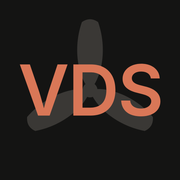
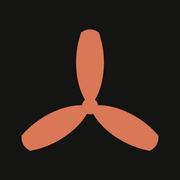
Icona: solo elica; service worker network-first per aggiornamento automatico
Claude-Session: https://claude.ai/code/session_01FdBpUrxqArmfs7yJR15D1w

Changed region(s): [[0.1111, 0.1111, 0.9167, 0.8611]]

diff --git a/sw.js b/sw.js
@@ -1,0 +1,15 @@
+// Network-first: l'app si aggiorna da sola ad ogni apertura; la cache serve solo offline.
+const CACHE = 'vds-cache';
+self.addEventListener('install', () => self.skipWaiting());
+self.addEventListener('activate', e => e.waitUntil(self.clients.claim()));
+self.addEventListener('fetch', e => {
+  const req = e.request;
+  if (req.method !== 'GET' || new URL(req.url).origin !== location.origin) return;
+  e.respondWith(
+    fetch(req, { cache: 'no-cache' }).then(res => {
+      const copy = res.clone();
+      caches.open(CACHE).then(c => c.put(req, copy)).catch(() => {});
+      return res;
+    }).catch(() => caches.match(req))
+  );
+});

diff --git a/index.html b/index.html
@@ -77,5 +77,18 @@
 
 <script src="data.js"></script>
 <script src="app.js"></script>
+<script>
+if ('serviceWorker' in navigator) {
+  var hadSW = !!navigator.serviceWorker.controller, reloading = false;
+  navigator.serviceWorker.addEventListener('controllerchange', function () {
+    if (hadSW && !reloading) { reloading = true; location.reload(); }
+  });
+  navigator.serviceWorker.register('sw.js').then(function (reg) {
+    document.addEventListener('visibilitychange', function () {
+      if (document.visibilityState === 'visible') reg.update();
+    });
+  }).catch(function () {});
+}
+</script>
 </body>
 </html>
